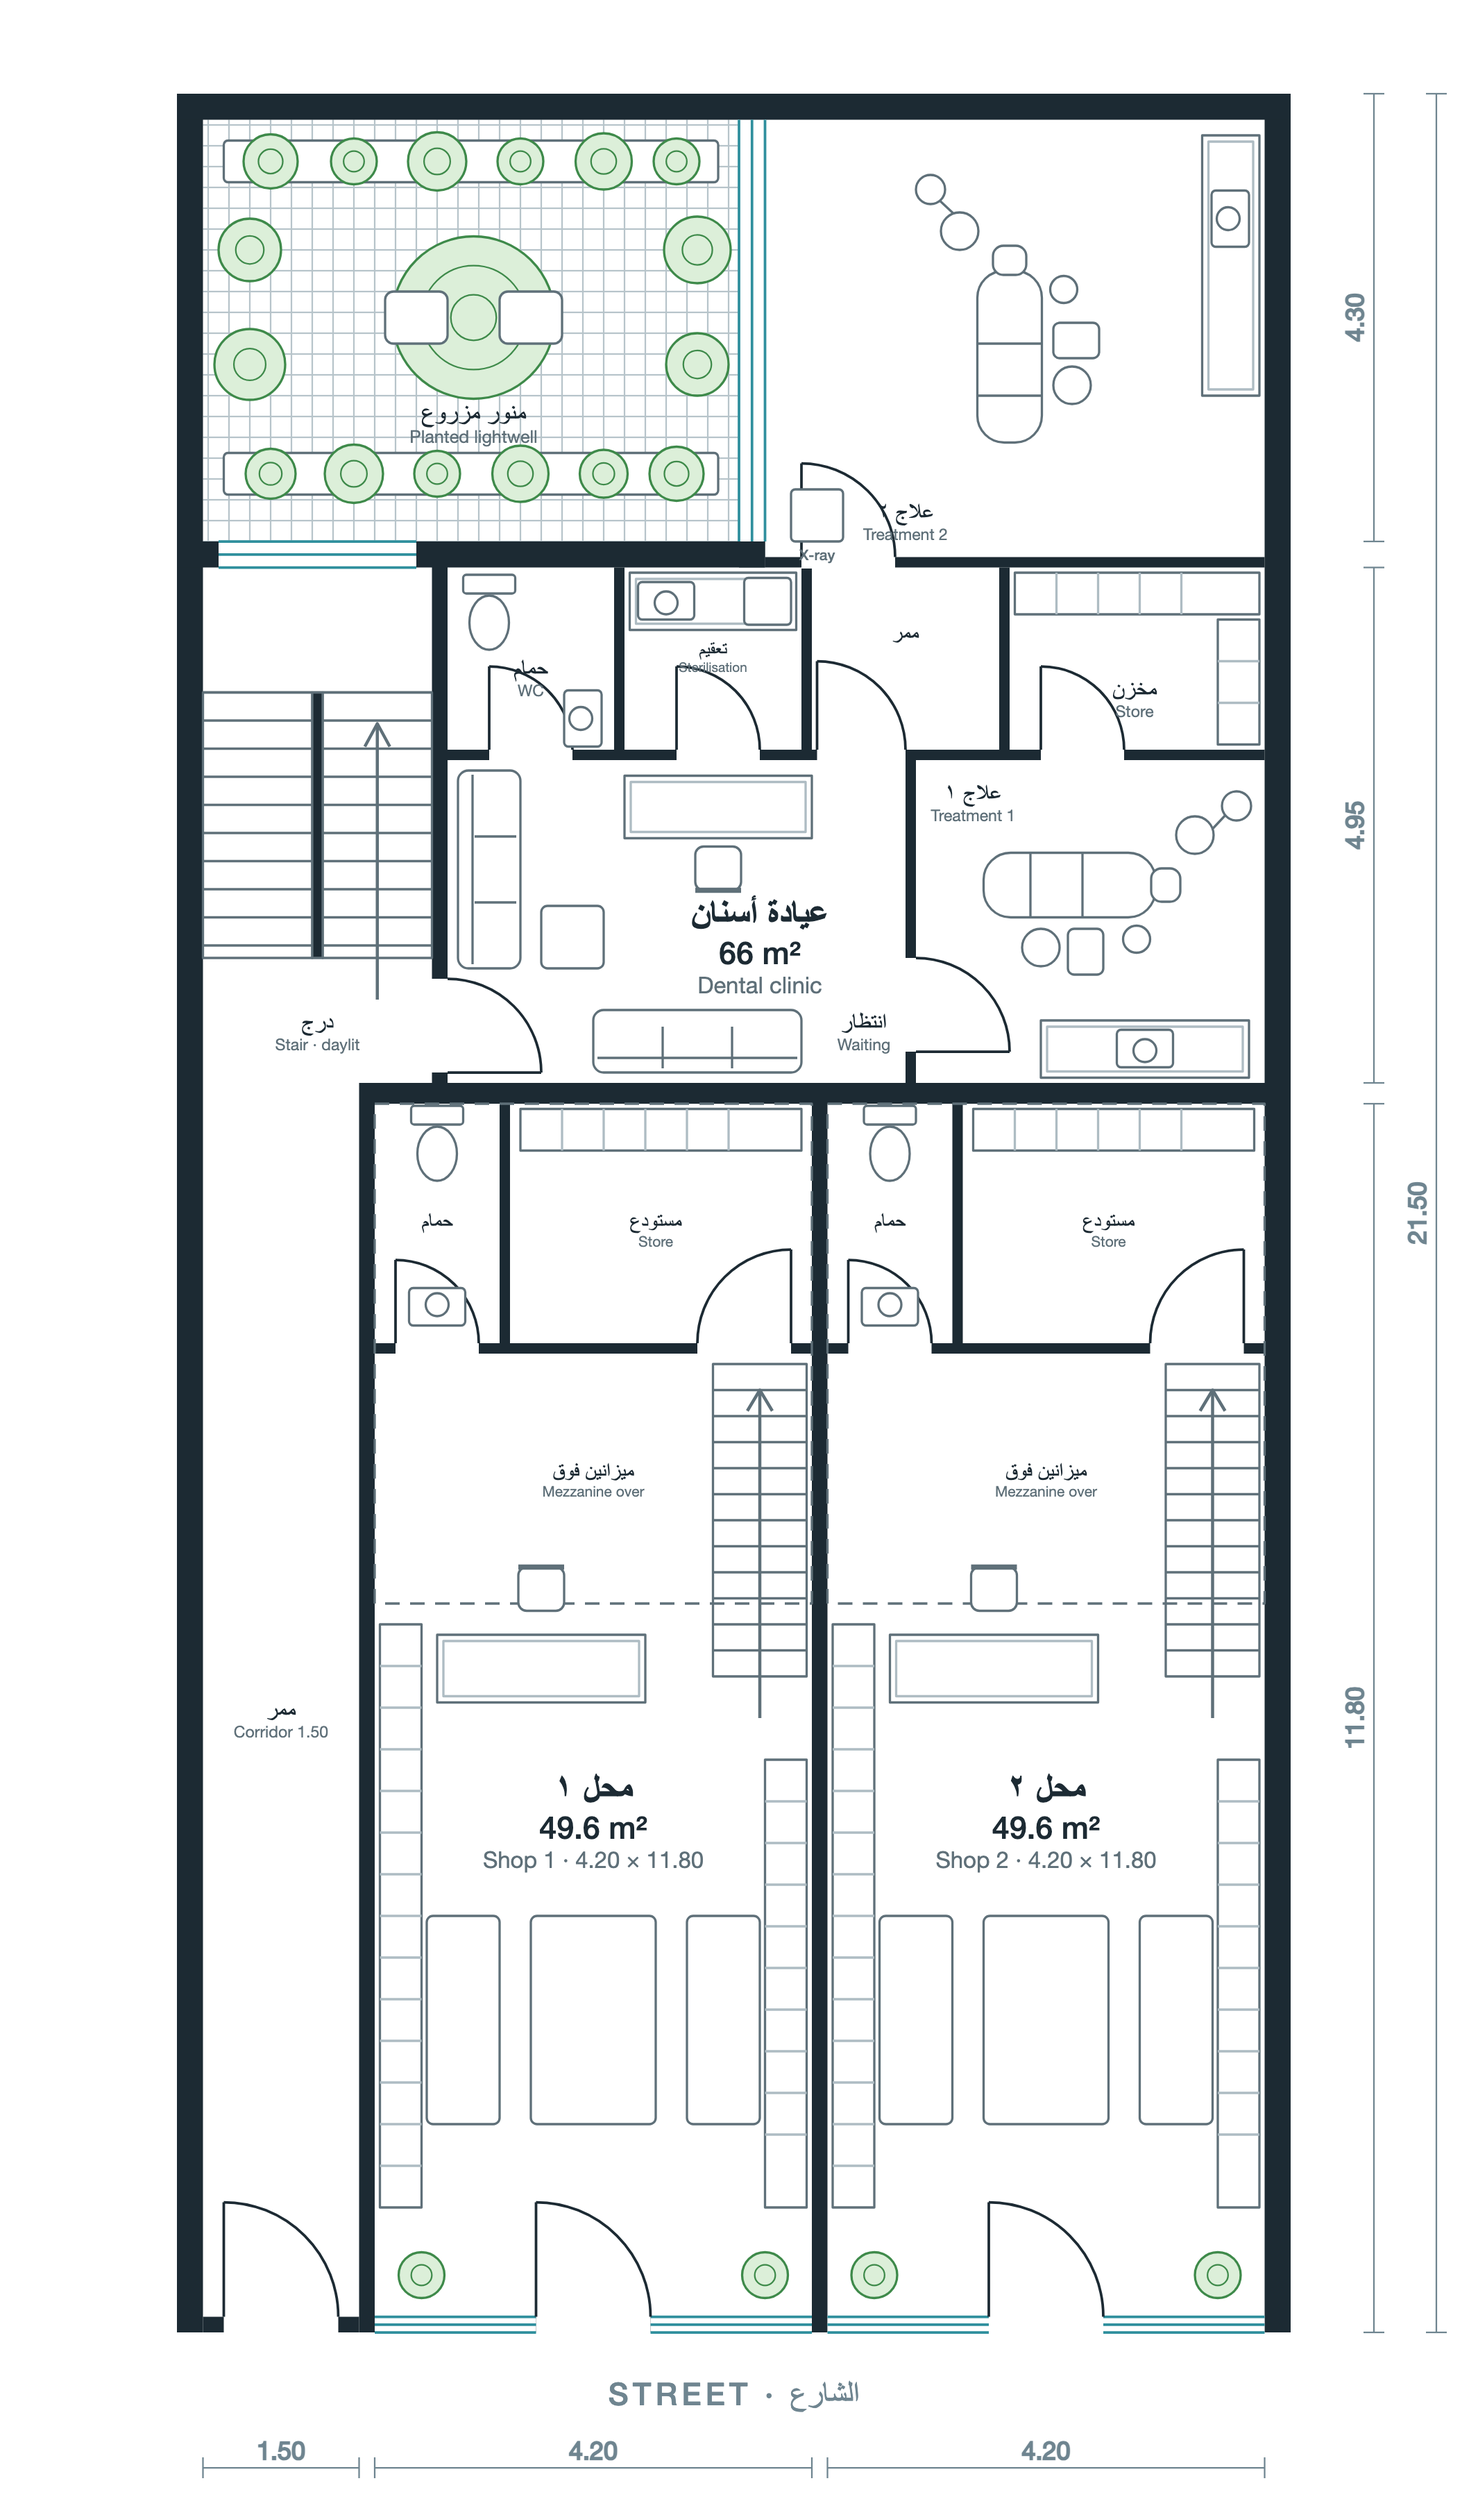
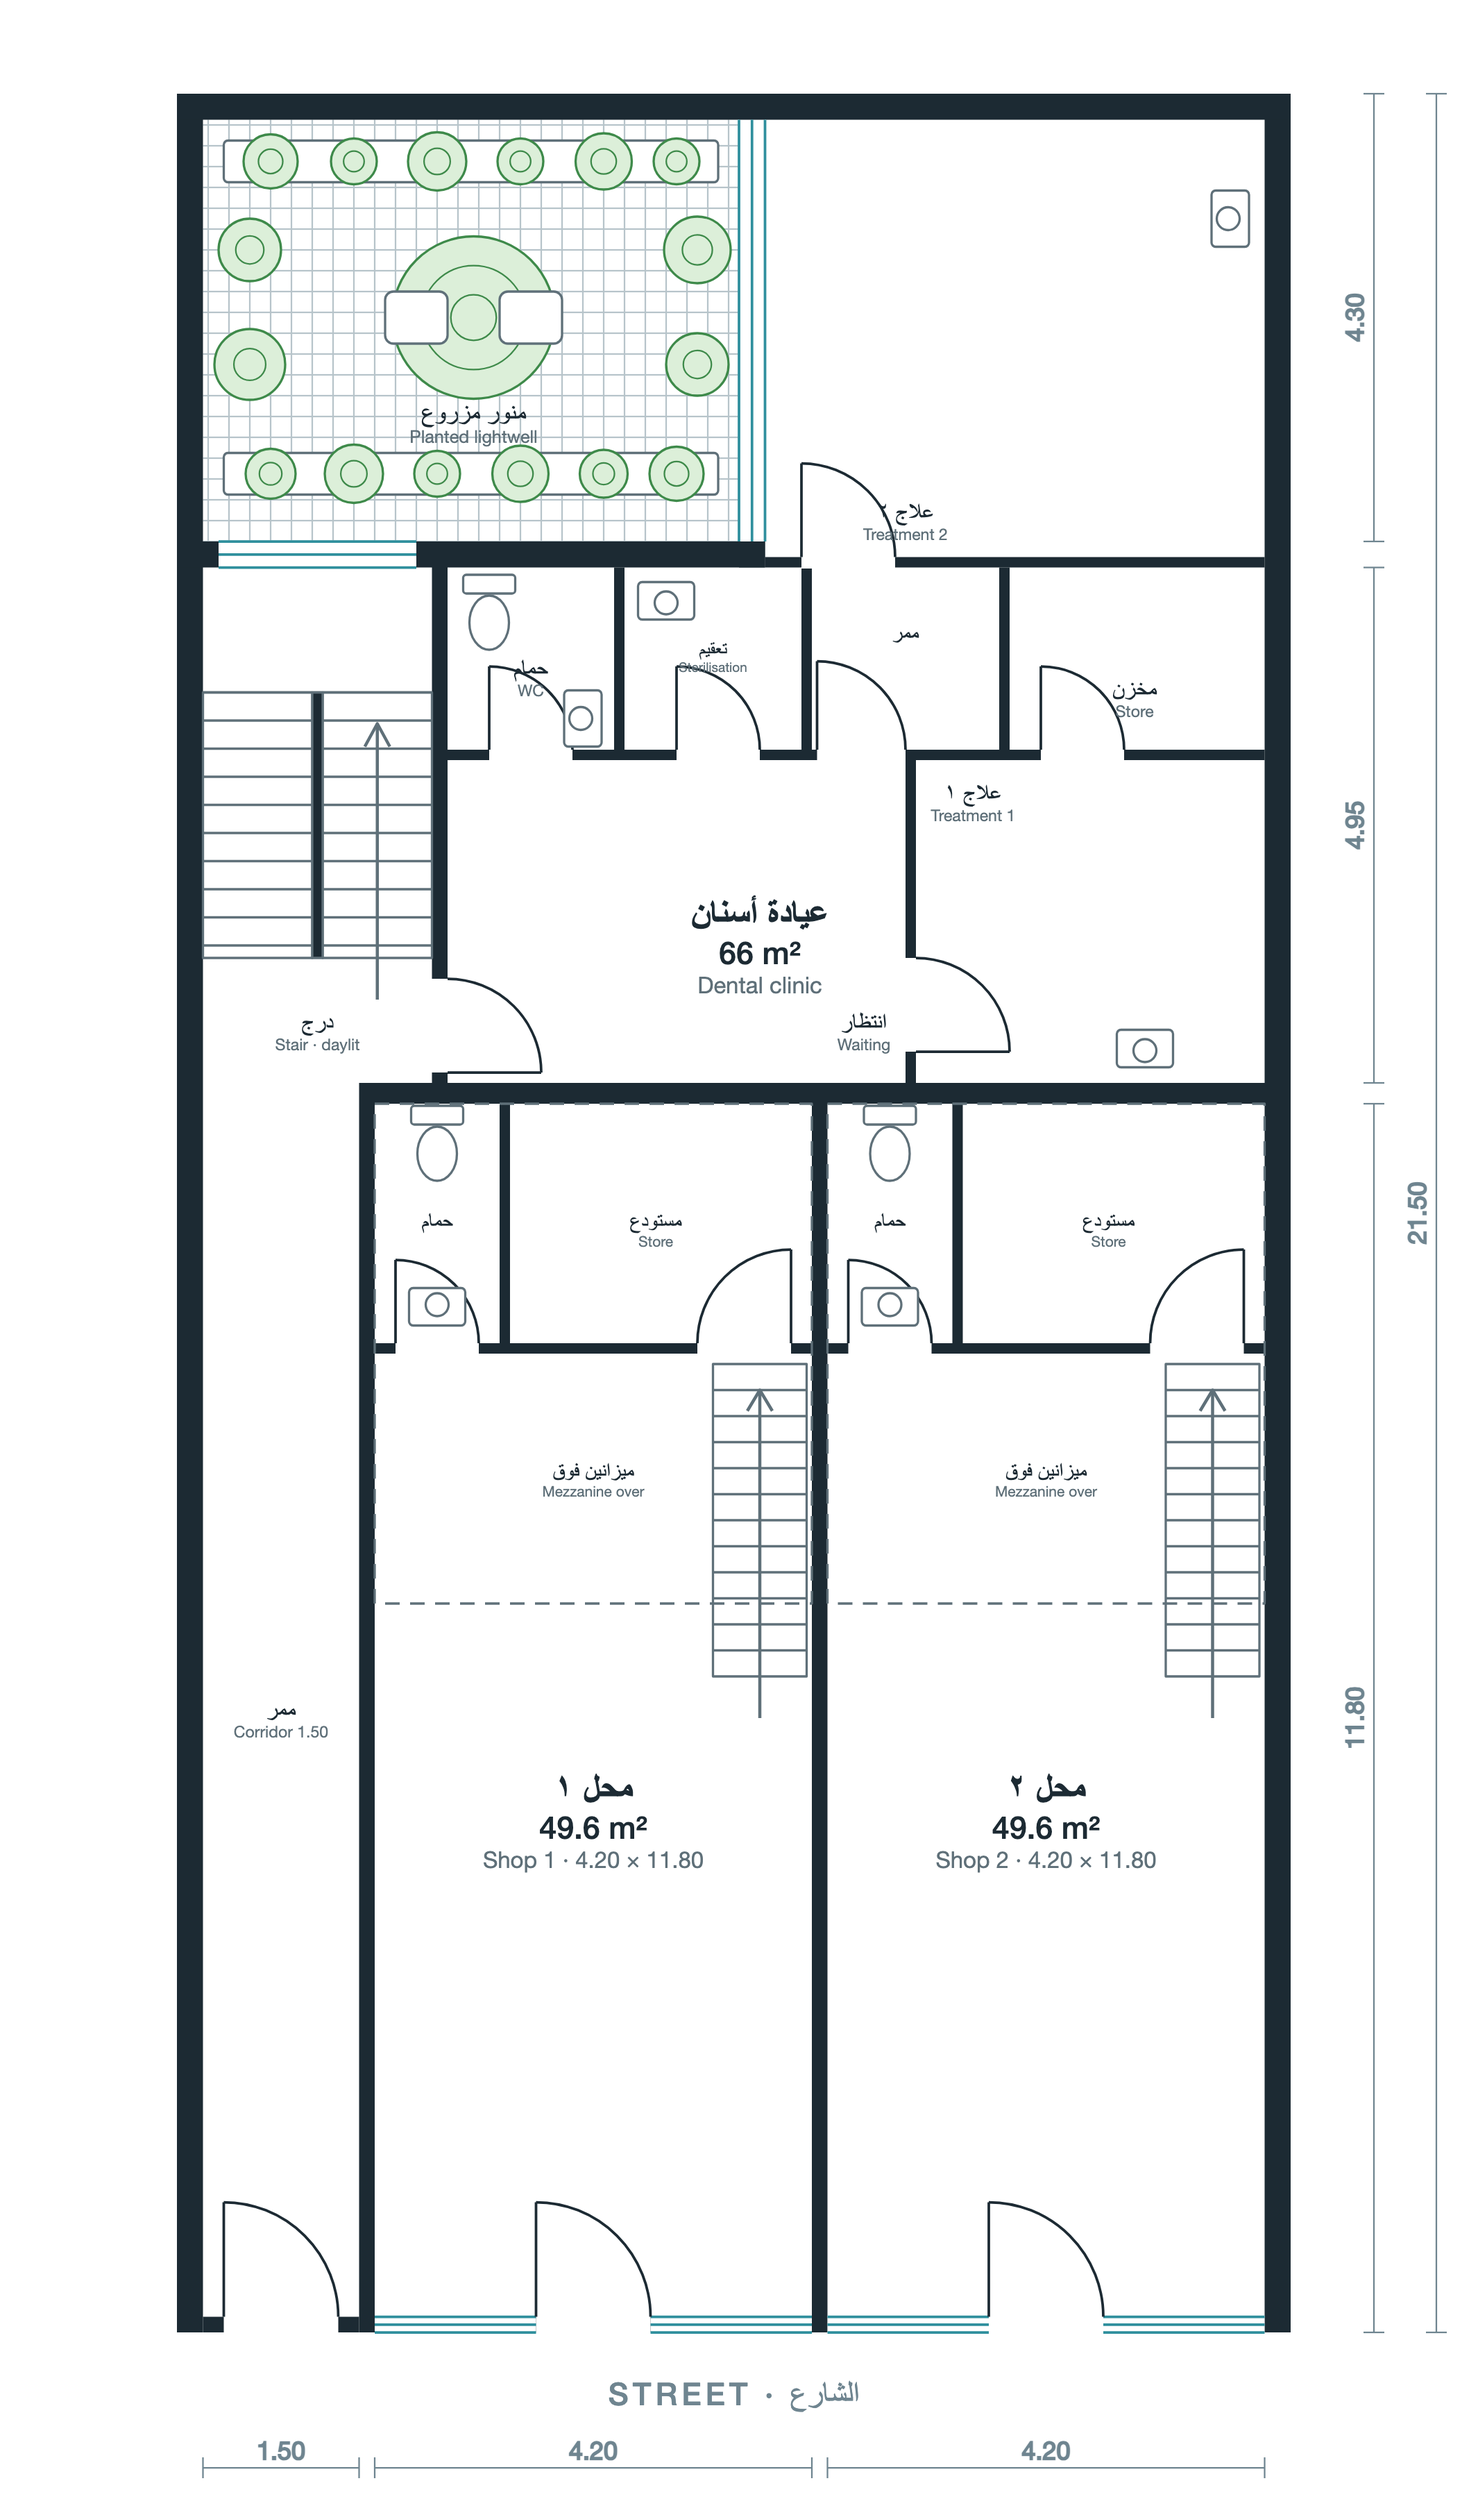
Draw the Option 3 plans without furniture
The drawing helpers gain a furniture switch; with it off a plan shows walls,
doors, glazing, the stair, sanitary fixtures and the lightwell planting only.
The Option 3 plans are drawn that way now, on both floors, as asked. The
Option 2 plans keep their fit-out.

Claude-Session: https://claude.ai/code/session_01LqRNDqLmS9HuGRKSh3RGhW

diff --git a/option-2/plans.py b/option-2/plans.py
@@ -40,6 +40,7 @@ def esc(s):
 class Plan:
     def __init__(self):
         self.L = {k: [] for k in LAYERS}
+        self.furniture = True   # False: draw walls, doors, sanitary fixtures and landscape only
 
     def add(self, layer, s):
         self.L[layer].append(s)
@@ -126,16 +127,19 @@ class Plan:
     def f(self, s):
         self.add("furn", s)
 
-    def rect(self, x, y, w, h, rx=0, extra=""):
+    def rect(self, x, y, w, h, rx=0, extra="", landscape=False):
+        if not self.furniture and not landscape: return
         self.f(f'<rect x="{x}" y="{y}" width="{w}" height="{h}" rx="{rx}" {extra}/>')
 
     def chair(self, cx, cy, rot=0):
+        if not self.furniture: return
         # 45 x 45 seat with a back on its top edge; rot in degrees (back faces up at 0)
         self.f(f'<g transform="translate({cx} {cy}) rotate({rot})">'
                f'<rect x="-22" y="-20" width="44" height="42" rx="8"/>'
                f'<line x1="-22" y1="-20" x2="22" y2="-20" stroke-width="5"/></g>')
 
     def desk(self, x, y, w, h, chair="b"):
+        if not self.furniture: return
         """Desk with one chair on the side given: t/b/l/r (the chair's back faces away)."""
         self.rect(x, y, w, h)
         if chair == "b":
@@ -148,6 +152,7 @@ class Plan:
             self.chair(x + w + 32, y + h / 2, 90)
 
     def table(self, cx, cy, w, h, top=2, bottom=2, left=0, right=0):
+        if not self.furniture: return
         self.rect(cx - w / 2, cy - h / 2, w, h, rx=6)
         for i in range(top):
             self.chair(cx - w / 2 + (i + 0.5) * w / top, cy - h / 2 - 32, 0)
@@ -159,6 +164,7 @@ class Plan:
             self.chair(cx + w / 2 + 32, cy - h / 2 + (i + 0.5) * h / right, 90)
 
     def sofa(self, x, y, w, h, back="t"):
+        if not self.furniture: return
         self.rect(x, y, w, h, rx=10)
         if back in ("t", "b"):
             by = y + 14 if back == "t" else y + h - 14
@@ -174,6 +180,7 @@ class Plan:
                 self.f(f'<line x1="{x+16}" y1="{y + i*h/n}" x2="{x+w-4}" y2="{y + i*h/n}"/>')
 
     def bed(self, x, y, w=70, h=190, pillow="t"):
+        if not self.furniture: return
         self.rect(x, y, w, h, rx=6)
         if pillow == "t":
             self.rect(x + 8, y + 8, w - 16, 30, rx=6)
@@ -191,6 +198,7 @@ class Plan:
                f'<circle cx="0" cy="2" r="11"/></g>')
 
     def shelf(self, x, y, w, h):
+        if not self.furniture: return
         self.rect(x, y, w, h)
         if w >= h:
             step = 40
@@ -202,19 +210,23 @@ class Plan:
                 self.f(f'<line x1="{x}" y1="{y+i*step}" x2="{x+w}" y2="{y+i*step}" stroke="{SOFT}"/>')
 
     def counter(self, x, y, w, h):
+        if not self.furniture: return
         self.rect(x, y, w, h)
         self.rect(x + 6, y + 6, w - 12, h - 12, extra=f'stroke="{SOFT}"')
 
-    def plant(self, cx, cy, r=22):
+    def plant(self, cx, cy, r=22, landscape=False):
+        if not self.furniture and not landscape: return
         self.f(f'<g stroke="{LEAF}" fill="{LEAF2}"><circle cx="{cx}" cy="{cy}" r="{r}"/>'
                f'<circle cx="{cx}" cy="{cy}" r="{r*0.45}" fill="none" stroke-width="1.5"/></g>')
 
-    def tree(self, cx, cy, r=78):
+    def tree(self, cx, cy, r=78, landscape=False):
+        if not self.furniture and not landscape: return
         self.f(f'<g stroke="{LEAF}" fill="{LEAF2}"><circle cx="{cx}" cy="{cy}" r="{r}"/>'
                f'<circle cx="{cx}" cy="{cy}" r="{r*0.64}" fill="none" stroke-width="1.5"/>'
                f'<circle cx="{cx}" cy="{cy}" r="{r*0.28}" fill="none" stroke-width="1.5"/></g>')
 
     def dental_chair(self, cx, cy, rot=0):
+        if not self.furniture: return
         """Dental treatment chair, head towards -y, with delivery unit, light and stools."""
         self.f(f'<g transform="translate({cx} {cy}) rotate({rot})">'
                f'<rect x="-31" y="-80" width="62" height="165" rx="26"/>'          # chair

diff --git a/option-3/plans.py b/option-3/plans.py
@@ -13,6 +13,10 @@ weak points fixed. Same plot, same envelope, same lightwell and terrace.
            daylit from the open lightwell on every floor.
 
     python3 option-3/plans.py --png
+
+The plans are drawn without furniture (p.furniture = False): walls, doors,
+glazing, the stair, sanitary fixtures and the lightwell planting only. Set it
+back to True in ground(), ground_central() and typical() for a furnished set.
 """
 import os, sys
 HERE = os.path.dirname(os.path.abspath(__file__))
@@ -24,12 +28,13 @@ def shell_ground(p):
     p.vwall(0, 0, D, OW); p.vwall(W - OW, 0, D, OW); p.hwall(0, W, 0, OW)
     p.vwall(540, 0, 455, 25); p.hwall(0, 565, 430, 25)
     p.hatch(25, 25, 540, 430, "well")
-    p.rect(45, 45, 475, 40, rx=4); p.rect(45, 345, 475, 40, rx=4)
+    p.rect(45, 45, 475, 40, rx=4, landscape=True); p.rect(45, 345, 475, 40, rx=4, landscape=True)
     for cx, cy, r in ((90, 65, 26), (170, 65, 22), (250, 65, 28), (330, 65, 22), (410, 65, 27), (480, 65, 22),
                       (90, 365, 24), (170, 365, 28), (250, 365, 22), (330, 365, 27), (410, 365, 23), (480, 365, 26),
                       (70, 150, 30), (70, 260, 34), (500, 150, 32), (500, 260, 30)):
-        p.plant(cx, cy, r)
-    p.tree(285, 215); p.rect(200, 190, 60, 50, rx=8); p.rect(310, 190, 60, 50, rx=8)
+        p.plant(cx, cy, r, landscape=True)
+    p.tree(285, 215, landscape=True)
+    p.rect(200, 190, 60, 50, rx=8, landscape=True); p.rect(310, 190, 60, 50, rx=8, landscape=True)
     p.room(285, 315, "منور مزروع", "Planted lightwell", 24)
 
 
@@ -68,7 +73,8 @@ def clinic(p, cross=False):
     p.counter(435, 460, 160, 55); p.basin(470, 487, 0); p.rect(545, 465, 45, 45, rx=4)
     p.shelf(805, 460, 235, 40); p.shelf(1000, 505, 40, 120)
     p.counter(985, 40, 55, 250); p.basin(1012, 120, 90); p.dental_chair(800, 250)
-    p.rect(590, 380, 50, 50, rx=4); p.label(615, 448, "X-ray", size=14, color=FURN)
+    p.rect(590, 380, 50, 50, rx=4)
+    if p.furniture: p.label(615, 448, "X-ray", size=14, color=FURN)
     p.room(660, 900, "انتظار", "Waiting", 22)
     p.room(765, 680, "علاج ١", "Treatment 1", 22); p.room(700, 410, "علاج ٢", "Treatment 2", 22)
     p.room(340, 560, "حمام", "WC", 22); p.room(515, 540, "تعقيم", "Sterilisation", 18)
@@ -76,7 +82,7 @@ def clinic(p, cross=False):
 
 
 def ground():
-    p = Plan()
+    p = Plan(); p.furniture = False
     shell_ground(p)
     clinic(p)
     # stair, hall glazed onto the lightwell
@@ -154,7 +160,7 @@ def ground_central():
     """The passage on the facade's axis; at its end a corridor 1.35 m deep, cut
     from the clinic's front edge, turns left to the stair. The clinic is
     entered from the axis. Both shops keep their full depth."""
-    p = Plan()
+    p = Plan(); p.furniture = False
     shell_ground(p)
     clinic(p, cross=True)
     p.glass_h(40, 230, 430, 455)
@@ -207,7 +213,7 @@ def suite_dental(p, a, b, ytop, door, name_ar, area, name_en):
 
 
 def typical():
-    p = Plan()
+    p = Plan(); p.furniture = False
     p.vwall(0, 430, D, OW); p.vwall(W - OW, 430, D, OW); p.hwall(0, W, 430, 25)
     p.vwall(0, 0, 430, 8); p.vwall(W - 8, 0, 430, 8); p.hwall(0, W, 0, 8)
     p.vwall(540, 0, 455, 25); p.void(25, 25, 540, 430); p.hatch(565, 8, W - 8, 430, "terrace")
